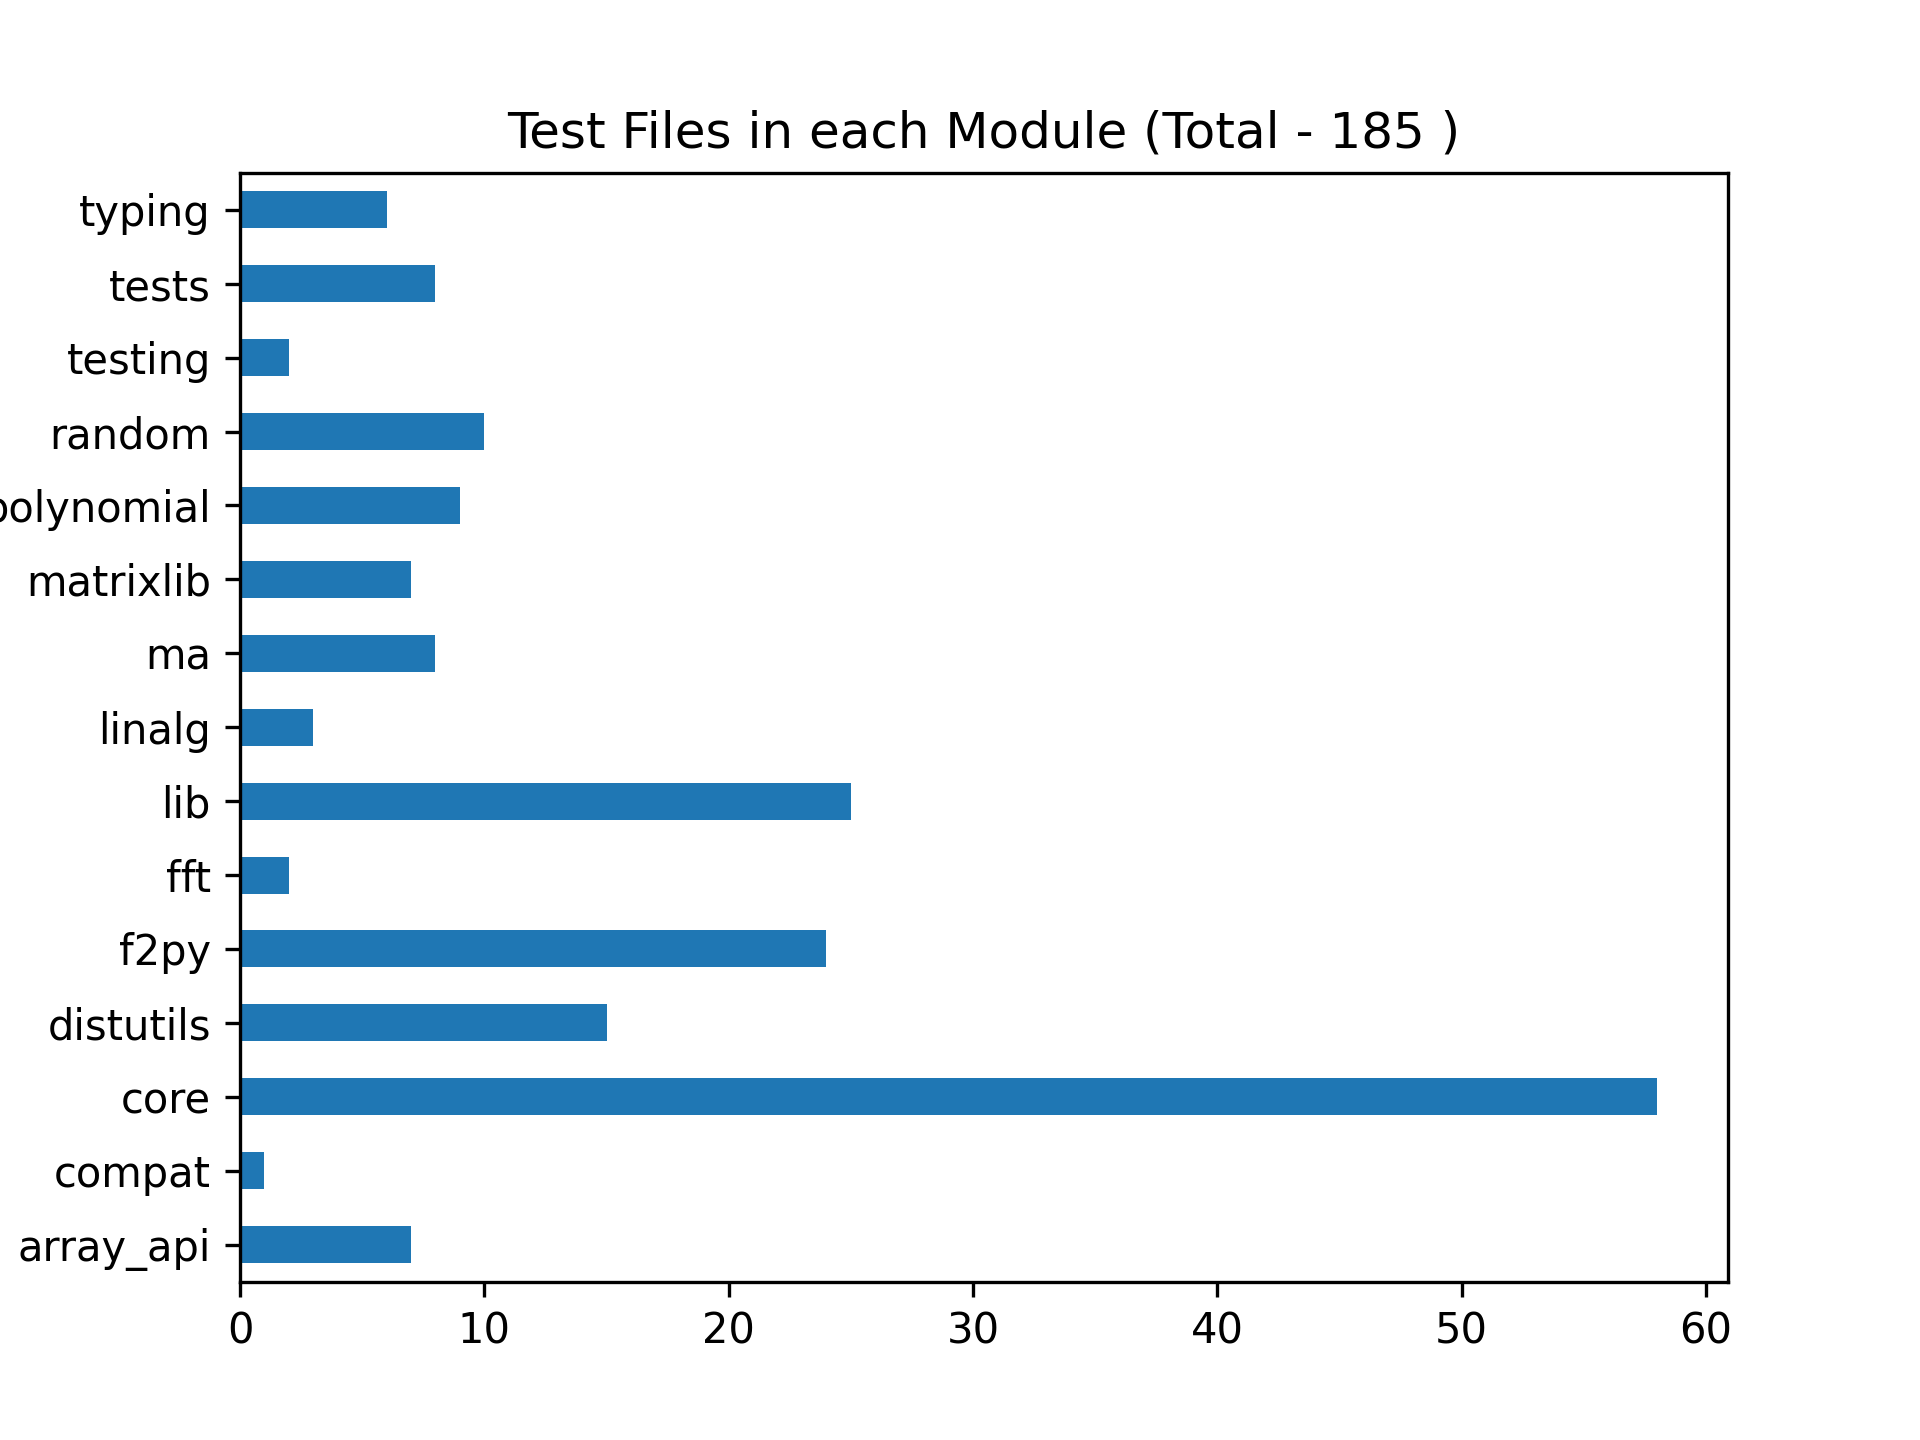
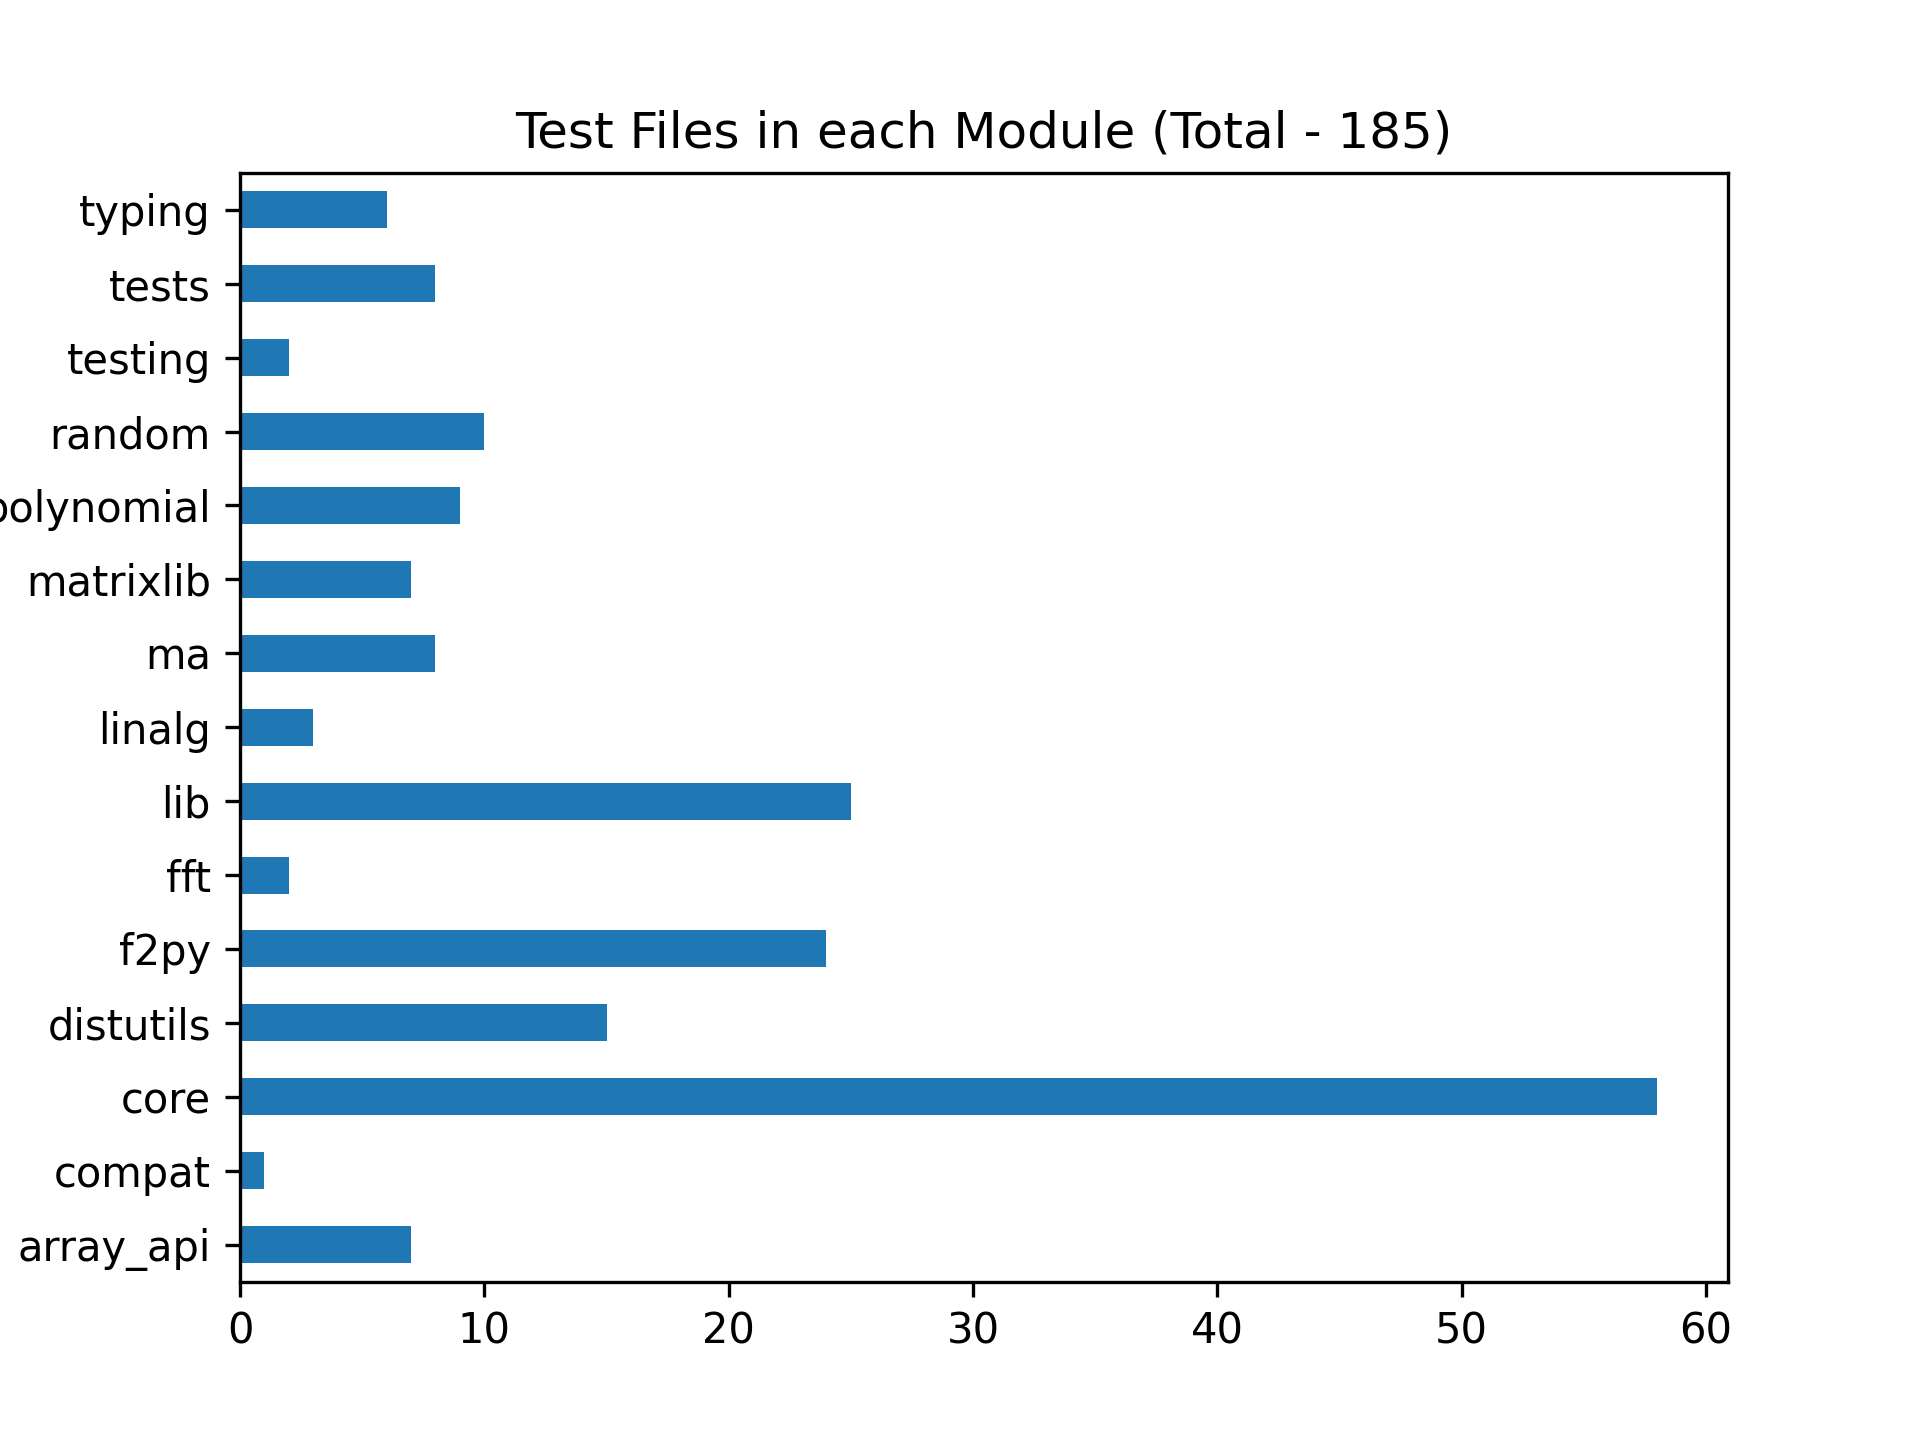
task3Part1

Changed region(s): [[0.25, 0.0625, 0.75, 0.125]]

diff --git a/AssertLocAndCountInProduction.py b/AssertLocAndCountInProduction.py
@@ -39,10 +39,12 @@ def skipLines(position, linesForSkipLines):
     return numberOfLinesToBeSkippedForFromStatement
 
 
-def getAssertCountForAFile(filePath):
+def getAssertLocAndCountForAFile(filePath):
     file = open(filePath, 'r')
+    location = list()
     assertCount = 0
-    assertError = 0
+    assertDict = dict()
+    debugDict = dict()
     lines = file.readlines()
     i = 0
     while i < len(lines):
@@ -53,30 +55,33 @@ def getAssertCountForAFile(filePath):
         # Search Assert using Regex
         if re.search("^assert", lines[i]) or re.search("^\\s+assert", lines[i]):
             assertCount += 1
-        if re.search("raise AssertionError", lines[i]):
-            assertError += 1
+            location.append(i + 1)
         i += 1
-    assertCountDict[filePath] = [assertCount,assertError]
+    assertDict['assertCountAndLoc'] = [assertCount, location]
+    assertCountDict[filePath] = assertDict
 
 
-def getAssertCountForAllFiles():
+def getAssertLocAndCountForAllFiles():
     allFilesPath = getTestFiles(dirName)
     for eachFilepath in allFilesPath:
-        getAssertCountForAFile(eachFilepath)
-    return assertCountDict
+        getAssertLocAndCountForAFile(eachFilepath)
 
 
 def writeToCSV():
-    header = ['Relative Path', 'Module', 'File Name', 'Assert Count','Assert Error']
-    with open('data/AssertCount.csv', 'w') as csv_file:
+    header = ['Relative Path', 'Module', 'File Name', 'Assert Location (Line Number)', 'Assert Count']
+    with open('data/AssertLocAndCountInProduction.csv', 'w') as csv_file:
         writer = csv.writer(csv_file)
         writer.writerow(header)
         for key, value in assertCountDict.items():
             module = re.findall("^[A-Za-z-]+\/[a-z]+\/([a-z_0-9]+)", key)
             fileName = key[key.rfind("/") + 1:]
+            loactionList = value['assertCountAndLoc'][1]
+            loactionInStrFormat = ','.join(str(e) for e in loactionList)
             if not (module[0].startswith("_")):
-                writer.writerow([key, module[0], fileName, value[0],value[1]])
+                writer.writerow([key, module[0], fileName, loactionInStrFormat, value['assertCountAndLoc'][0]])
 
 
-dirName = 'numpy-git/numpy'
+dirName = 'numpy-production/numpy'
 
+getAssertLocAndCountForAllFiles()
+writeToCSV()

diff --git a/gen-figures.py b/gen-figures.py
@@ -14,7 +14,7 @@ def generateAssertCountPlots():
     groupedByModuleAssertErrorData = data.groupby('Module')['Assert Error'].sum().reset_index()
     groupedByModuleTotalCountOfTestCasesData = data.groupby('Module').size()
     groupedByModuleTotalCountOfTestCasesData.plot(kind='barh', title='Test Files in each Module (Total - ' + str(
-        numberOfTestFiles) + ' )')
+        numberOfTestFiles) + ')')
     plt.savefig("figures/Test-Files-Count", dpi=300)
     groupedByModuleAssertCountData.sort_values(['Assert Count'], ascending=False).plot(kind='barh', y='Assert Count',
                                                                                        x='Module',
